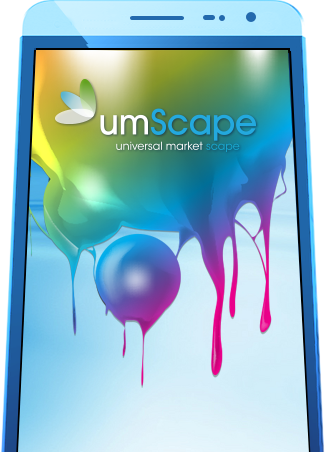
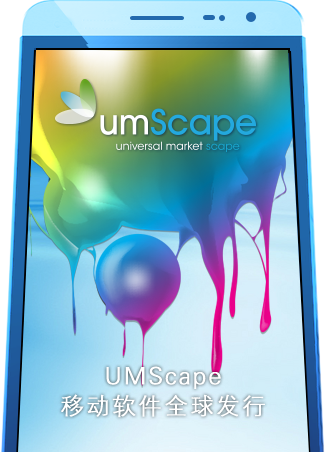
x

Changed region(s): [[0.184, 0.8053, 0.8282, 0.9292]]

diff --git a/project/pages/agreement.html b/project/pages/agreement.html
@@ -5,7 +5,7 @@
 	<meta charset="UTF-8">
 	<meta name="viewport" content="width=device-width, initial-scale=1, maximum-scale=1">
 	<link rel="icon" href="assest/images/logo.png" type="image/x-ico">
-	<title>Um Scape - Mobile Ad Network | Mobile RTB | Android App Monetization</title>
+	<title>umScape - Mobile Ad Network | Mobile RTB | Android App Monetization</title>
 	<meta name="description" content="Our AirDSP™ self-serve mobile ad network enables clients to purchase inventory from Airpush and all major mobile RTB exchanges using a single, world class interface">
 	<link rel="stylesheet" id="shadowbox-css-css" href="assest/shadowbox.css" type="text/css" media="screen">
 	<link rel="stylesheet" id="shadowbox-extras-css" href="assest/extras.css" type="text/css" media="screen">
@@ -100,9 +100,9 @@
 				<nav id="main_menu" class="smooth_menu">
 					<ul id="menu-main-navigation" class="sf-menu nav clearfix sf-js-enabled">
 						<li id="menu-item-539" class="menu-item menu-item-type-post_type menu-item-object-page current-menu-item page_item page-item-134 current_page_item current-menu-ancestor current-menu-parent current_page_parent current_page_ancestor menu-item-539"><a href="index.html" class="sf-with-ul">开发者应用</a></li>
-						<li id="menu-item-948" class="menu-item menu-item-type-custom menu-item-object-custom menu-item-948"><a href="" class="sf-with-ul">发行产品</a></li>
+						<li id="menu-item-948" class="menu-item menu-item-type-custom menu-item-object-custom menu-item-948"><a href="index.html#pushlish" class="sf-with-ul">广告产品</a></li>
 						<li id="menu-item-61" class="menu-item menu-item-type-post_type menu-item-object-page menu-item-61"><a href="" class="sf-with-ul">推广平台</a></li>
-						<li id="menu-item-59" class="menu-item menu-item-type-post_type menu-item-object-page menu-item-59 "><a href="" class="sf-with-ul">关于我们</a>
+						<li id="menu-item-59" class="menu-item menu-item-type-post_type menu-item-object-page menu-item-59 "><a href="aboutus.html" class="sf-with-ul">关于我们</a>
 							<ul class="sub-menu" style="float: none; width: 14.076923076923077em; display: none; visibility: hidden;">
 								<li id="menu-item-272" class="menu-item menu-item-type-post_type menu-item-object-page menu-item-272" style="white-space: normal; float: left; width: 100%;"><a href="aboutus.html" style="float: none; width: auto;">公司简介</a></li>
 								<li id="menu-item-1979" class="menu-item menu-item-type-post_type menu-item-object-page menu-item-1979" style="white-space: normal; float: left; width: 100%;"><a href="agreement.html" style="float: none; width: auto;">服务协议</a></li>
@@ -122,7 +122,7 @@
 			<div id="airpush-aboutus-widget">
 				<div class="container">
 					<div class="widget-content">
-			    		<h1 class="headline" style="opacity: 1;">关于UmScape</h1>
+			    		<h1 class="headline" style="opacity: 1;">关于umScape</h1>
 			    		<p class="subheading" style="opacity: 1;">More about our story, team and technology ...</p>
 			    	</div>
 				</div>
@@ -155,24 +155,24 @@
 								<h6 class="subtitle" style="padding-left: 5px;">Service Agreement</h6>
 								<h2 class="headline" style="color: #00427D;">服务协议</h2>
 								<strong>特别提示 </strong>
-								<p class="ht14" >　　酷果平台的所有权和运营权归广州市谷果软件技术有限公司所有。为获得酷果平台所提供的移动应用广告的相关服务，服务使用者（以下简称&#8220;用户&#8221;，用户包括广告主、开发者）须要同意本协议的全部条款并按照页面上的提示完成注册程序。如果用户在注册过程中点击&#8220;我同意&#8221;按钮即表示用户完全接受本协议的所有条款。 </p><br />
+								<p class="ht14" >　　优米空间平台的所有权和运营权归广州市谷果软件技术有限公司所有。为获得优米空间平台所提供的移动应用广告的相关服务，服务使用者（以下简称&#8220;用户&#8221;，用户包括广告主、开发者）须要同意本协议的全部条款并按照页面上的提示完成注册程序。如果用户在注册过程中点击&#8220;我同意&#8221;按钮即表示用户完全接受本协议的所有条款。 </p><br />
 								<p class="ht14" ><span class="htlan14"><strong>定义.</strong></span><strong>&nbsp;</strong> </p>
 								<p class="ht14" ><span class="ht14">1.</span>开发者指的是想向其手机应用程序用户发送广告的手机应用程序开发者或所有者。 </p>
 								<p class="ht14" ><span class="ht14">2.</span>广告主是想通过手机应用程序分发广告的公司、广告代理商或经纪人。 </p>
 								<p class="ht14" >3.用户指广告主或开发者。 </p>
-								<p class="ht14" >4.酷果平台是提供下述服务的公司。 </p>
-								<p class="ht14" >5.服务包括协助开发者和广告主之间进行手机广告买卖活动，以及下文和网站:(www.kuguopush.com)中描述的酷果平台提供给用户的其他服务。 </p><br />
+								<p class="ht14" >4.优米空间平台是提供下述服务的公司。 </p>
+								<p class="ht14" >5.服务包括协助开发者和广告主之间进行手机广告买卖活动，以及下文和网站:(www.kuguopush.com)中描述的优米空间平台提供给用户的其他服务。 </p><br />
 
 								<p > </p>
 								<p class="htlan14" ><strong>服务内容 </strong></p>
-								<p class="ht14" ><strong>1.针对开发者的服务。</strong>在完全和即时遵守本协议的前提下（包括付费的有关条款），酷果平台允许发布者通过其手机应用程序，发布广告作品。开发者同意酷果平台访问、索引、存储和缓存发布者应用程序发送的请求，包括使用自动化手段进行此类操作。广告主作品可能会发送至手机通知栏，也可能通过网站上提及的其他手段发送。 </p>
-								<p class="ht14" ><strong>2.可使用服务。</strong>按照本协议中的条款和规定，酷果平台应每周7&#215;24小时提供服务。用户同意，服务可能偶尔因故无法访问或使用，其原因包括但不限于：<br />
+								<p class="ht14" ><strong>1.针对开发者的服务。</strong>在完全和即时遵守本协议的前提下（包括付费的有关条款），优米空间平台允许发布者通过其手机应用程序，发布广告作品。开发者同意优米空间平台访问、索引、存储和缓存发布者应用程序发送的请求，包括使用自动化手段进行此类操作。广告主作品可能会发送至手机通知栏，也可能通过网站上提及的其他手段发送。 </p>
+								<p class="ht14" ><strong>2.可使用服务。</strong>按照本协议中的条款和规定，优米空间平台应每周7&#215;24小时提供服务。用户同意，服务可能偶尔因故无法访问或使用，其原因包括但不限于：<br />
 								（一）硬软件设备出现故障；<br />
-								（二）酷果平台可能随时进行周期性保养或维修；<br />
-								（三）酷果平台不可控或不可预见的原因，如电信或数字传输链路中断或故障，遭遇恶意的网络攻击，以及网络阻塞等故障。尽管酷果平台承诺将尽力提供优质服务，用户应同意，酷果平台无法控制服务的连续性和稳定性。酷果平台没有对服务进行追踪以保证服务连续性的责任。 </p><br />
+								（二）优米空间平台可能随时进行周期性保养或维修；<br />
+								（三）优米空间平台不可控或不可预见的原因，如电信或数字传输链路中断或故障，遭遇恶意的网络攻击，以及网络阻塞等故障。尽管优米空间平台承诺将尽力提供优质服务，用户应同意，优米空间平台无法控制服务的连续性和稳定性。优米空间平台没有对服务进行追踪以保证服务连续性的责任。 </p><br />
 
 								<p class="htlan14" ><strong>使用规则 </strong></p>
-								<p class="ht14" >1.用户在申请注册酷果平台时，须要向平台提供准确的个人资料，如用户使用本平台服务期间资料（邮箱、身份证、联系方式、账户信息等）有所变更，应及时以电话或者QQ的方式向本平台客服工作人员发出通知，否则对于可能造成的损失将由用户自己承担。用户注册成功后，本平台将给予每个用户一个用户密码。如果用户的密码丢失、被盗或泄露，用户应及时通知酷果平台，届时酷果平台应拒绝以该密码提请的访问请求，并按照用户授权的方式补发密码。 </p><br />
+								<p class="ht14" >1.用户在申请注册优米空间平台时，须要向平台提供准确的个人资料，如用户使用本平台服务期间资料（邮箱、身份证、联系方式、账户信息等）有所变更，应及时以电话或者QQ的方式向本平台客服工作人员发出通知，否则对于可能造成的损失将由用户自己承担。用户注册成功后，本平台将给予每个用户一个用户密码。如果用户的密码丢失、被盗或泄露，用户应及时通知优米空间平台，届时优米空间平台应拒绝以该密码提请的访问请求，并按照用户授权的方式补发密码。 </p><br />
 
 								<p > </p>
 								<p class="htlan14" ><strong>用户在使用平台提供的服务时，必须遵循以下原则：</strong></p>
@@ -188,35 +188,35 @@
 								<p class="ht14" >&#183;&nbsp;含有法律、行政法规禁止的其他内容的; </p><br />
 
 								<p > </p>
-								<p class="ht14" ><strong>2.酷果平台的权利。</strong>用户同意酷果平台随时因任何原因自行决定删除用户，或禁止用户访问网站或存储在网站上的部分或全部广告主作品。用户不得用任何不正当手段损害本平台其他用户及本平台的利益及声誉,不得利用非正规途径获得广告收益,一旦发现,将封锁帐号并且不给予结算。 </p><br />
+								<p class="ht14" ><strong>2.优米空间平台的权利。</strong>用户同意优米空间平台随时因任何原因自行决定删除用户，或禁止用户访问网站或存储在网站上的部分或全部广告主作品。用户不得用任何不正当手段损害本平台其他用户及本平台的利益及声誉,不得利用非正规途径获得广告收益,一旦发现,将封锁帐号并且不给予结算。 </p><br />
 
 								<p class="ht14" ><strong>3.用户违反上述规定的一条或多条，本平台有权随时解除合作并停止结算。</strong></p><br />
 
 								<p class="ht14" ><strong><span class="htlan14">许可证和所有权&nbsp;</span></strong><br />
 								</p>
-								<p class="ht14" >1.<strong>广告主特此授权酷果平台和开发者</strong>：酷果平台和开发者从广告主处获得非独家全球性免版税许可，根据此协议（或酷果平台强制执行本协议），可在互联网上或通过互联网复制、展示、发行、制作相关广告作品。广告主特别授权酷果平台对作品进行分类、描述，添加元数据、员工评价及质量分数，或执行其他操作，以将作品提供给发布者。 </p><br />
+								<p class="ht14" >1.<strong>广告主特此授权优米空间平台和开发者</strong>：优米空间平台和开发者从广告主处获得非独家全球性免版税许可，根据此协议（或优米空间平台强制执行本协议），可在互联网上或通过互联网复制、展示、发行、制作相关广告作品。广告主特别授权优米空间平台对作品进行分类、描述，添加元数据、员工评价及质量分数，或执行其他操作，以将作品提供给发布者。 </p><br />
 
-								<p class="ht14" >2.<strong>酷果平台所有权。</strong>&nbsp;酷果平台对&#8220;酷果平台材料&#8221;以及所有受法律保护的内容、衍生作品、修订和改进的内容，保留全部权利、所有权和权益（包括版权和其他专有权或知识产权），无论相关内容是否由酷果平台与广告客户合作开发，或由酷果平台、广告主或任何承包商、酷果平台或广告主的分包商或代理商开发。 </p><br />
+								<p class="ht14" >2.<strong>优米空间平台所有权。</strong>&nbsp;优米空间平台对&#8220;优米空间平台材料&#8221;以及所有受法律保护的内容、衍生作品、修订和改进的内容，保留全部权利、所有权和权益（包括版权和其他专有权或知识产权），无论相关内容是否由优米空间平台与广告客户合作开发，或由优米空间平台、广告主或任何承包商、优米空间平台或广告主的分包商或代理商开发。 </p><br />
 
 								<p class="htlan14" ><strong>隐私保护 </strong></p>
-								<p class="ht14" >酷果非常注重保护用户的隐私，在未经用户许可的情况下，酷果承诺不会将信息公开或提供给第三方，但下列情况除外： </p>
+								<p class="ht14" >优米空间非常注重保护用户的隐私，在未经用户许可的情况下，优米空间承诺不会将信息公开或提供给第三方，但下列情况除外： </p>
 								<p class="ht14" ><strong>&#183;事先获得用户的授权 </strong></p>
 								<p class="ht14" ><strong>&#183;根据有关的法律法规要求 </strong></p>
 								<p class="ht14" ><strong>&#183;按照相关政府主管部门的要求 </strong></p>
 								<p class="ht14" ><strong>&#183;为维护社会公众的利益 </strong></p>
 								<p class="ht14" ><strong>&#183;为维护本平台的合法权益 </strong></p><br />
 
-								<p class="ht14" >　　为了不断提升广告的精准度，酷果在不透露个体用户信息的前提下，有权对用户数据库进行分析、处理。酷果将在充分保护用户隐私的前提下，不断改进，为用户带来真正准确、有用的广告信息。 </p><br />
+								<p class="ht14" >　　为了不断提升广告的精准度，优米空间在不透露个体用户信息的前提下，有权对用户数据库进行分析、处理。优米空间将在充分保护用户隐私的前提下，不断改进，为用户带来真正准确、有用的广告信息。 </p><br />
 
 								<p class="htlan14" ><strong>保证和免责申明 </strong></p>
-								<p class="ht14" ><strong>1.酷果平台保证和免责。</strong>用户同意，酷果平台提供的服务及网站上所有内容都未经任何处理，不担保其有效性。&nbsp;酷果平台随时可以更改、暂停或终止服务（或用户的访问），包括更改功能可用性、广告、发布商或内容，恕不另行通知或承担责任。&nbsp;酷果平台保留自行决定随时拒绝某个用户使用服务的权利。 </p><br />
+								<p class="ht14" ><strong>1.优米空间平台保证和免责。</strong>用户同意，优米空间平台提供的服务及网站上所有内容都未经任何处理，不担保其有效性。&nbsp;优米空间平台随时可以更改、暂停或终止服务（或用户的访问），包括更改功能可用性、广告、发布商或内容，恕不另行通知或承担责任。&nbsp;优米空间平台保留自行决定随时拒绝某个用户使用服务的权利。 </p><br />
 
-								<p class="ht14" ><strong>2.广告主保证。</strong>广告主用户向酷果平台声明并保证：<br />
+								<p class="ht14" ><strong>2.广告主保证。</strong>广告主用户向优米空间平台声明并保证：<br />
 								（一）用户有能力和权利签署并履行本协议规定的相关义务；<br />
 								（二）广告作品中不包含违反或涉嫌违反任何相关法律或法规，侵犯或盗用他人所有权、知识产权、合同或民事权利的内容、材料、数据、作品、贸易或服务商标、商品名称、链接、广告或服务；<br />
 								（三）广告客户对广告作品拥有适当权限及所有专利或知识产权，或经由所有者明确的书面授权，能够复制、使用、分发、制作衍生作品，并在网站上公开展示和运行广告作品。当广告代理商代表广告主执行此协议时，对于所有约定事项条款、声明和下属付款义务，广告代理商应和广告主应共同承担连带责任。 </p><br />
 
-								<p class="ht14" ><strong>3.酷果平台担保声明。</strong>酷果平台不做任何明示或暗示担保，包括但不限于特定用途的适销性，适用性和/或有关本协议的任何标的事项的非侵权的任何暗示担保。 </p><br />
+								<p class="ht14" ><strong>3.优米空间平台担保声明。</strong>优米空间平台不做任何明示或暗示担保，包括但不限于特定用途的适销性，适用性和/或有关本协议的任何标的事项的非侵权的任何暗示担保。 </p><br />
 
 								<p class="htlan14" ><strong>违约赔偿 </strong></p>
 								<p class="ht14" >用户同意保障和维护本平台以及其他用户的利益，如因用户违反有关法律、法规或协议规定中的任何条款而给本平台或任何其他第三方造成损失，用户同意承担由此造成的损害赔偿责任。 </p><br />
@@ -234,7 +234,7 @@
 								<p class="ht14" >本协议构成双方对本协议之约定事项及其他有关事宜的完整协议，除本协议规定的之外，未赋予本协议各方其他权利。 </p>
 								<p class="ht14" >如本协议中的任何条款无论因何种原因完全或部分无效或不具有执行力，本协议的其余条款仍应有效并且有约束力。 </p>
 								<p class="ht14" >加入本平台前请详细阅读该协议,加入即默认您认可该协议规定内容。 </p>
-								<p class="ht14" >本协议解释权归酷果平台和广州市谷果软件技术有限公司所有。 </p>
+								<p class="ht14" >本协议解释权归优米空间平台和广州市谷果软件技术有限公司所有。 </p>
 							</div>
 						</div>
 					</div>
@@ -341,18 +341,18 @@
 				</div>
 			</div>
 			<div class="site-bottom">
-				<div class="left">&copy;2013 Um Scape. All rights reserved.</div>
+				<div class="left">&copy;2013 umScape. All rights reserved.</div>
 				<div class="right">
 					<!-- <a href="">网站地图</a> | 
 					<a href="">服务条款</a> | 
 					<a href="">隐私政策</a> -->
-					<a href="javascript:;">成都市高新区府城大道西段399号天府新谷8号楼</a>
+					<a href="javascript:;">深圳市车公庙泰然四路泰康轩2402室</a>
 				</div>
 			</div>
 		</div>
 	</footer>
 </div><!-- end page_wrapper -->
-<a href="" id="totop" class="on">TOP</a>
+<a href="" id="totop" class="on">顶部</a>
 <script type='text/javascript' src='assest/shadowbox.js'></script>
 <script type='text/javascript' src='assest/jquery.event.drag-2.2.js'></script>
 <script type='text/javascript' src='assest/jquery.event.drop-2.2.js'></script>

diff --git a/project/pages/index.html b/project/pages/index.html
@@ -5,7 +5,7 @@
 	<meta charset="UTF-8">
 	<meta name="viewport" content="width=device-width, initial-scale=1, maximum-scale=1">
 	<link rel="icon" href="assest/images/logo.png" type="image/x-ico">
-	<title>Um Scape - Mobile Ad Network | Mobile RTB | Android App Monetization</title>
+	<title>umScape - Mobile Ad Network | Mobile RTB | Android App Monetization</title>
 	<link rel="stylesheet" id="shadowbox-css-css" href="assest/shadowbox.css" type="text/css" media="screen">
 	<link rel="stylesheet" id="shadowbox-extras-css" href="assest/extras.css" type="text/css" media="screen">
 	<link rel="stylesheet" id="rs-settings-css" href="assest/settings.css" type="text/css" media="all">
@@ -66,9 +66,9 @@
 				<nav id="main_menu" class="smooth_menu">
 					<ul id="menu-main-navigation" class="sf-menu nav clearfix sf-js-enabled">
 						<li id="menu-item-539" class="menu-item menu-item-type-post_type menu-item-object-page current-menu-item page_item page-item-134 current_page_item current-menu-ancestor current-menu-parent current_page_parent current_page_ancestor menu-item-539 "><a href="index.html" class="sf-with-ul">开发者应用</a></li>
-						<li id="menu-item-948" class="menu-item menu-item-type-custom menu-item-object-custom menu-item-948"><a href="" class="sf-with-ul">发行产品</a></li>
+						<li id="menu-item-948" class="menu-item menu-item-type-custom menu-item-object-custom menu-item-948"><a href="#pushlish" class="sf-with-ul">广告产品</a></li>
 						<li id="menu-item-61" class="menu-item menu-item-type-post_type menu-item-object-page menu-item-61"><a href="" class="sf-with-ul">推广平台</a></li>
-						<li id="menu-item-59" class="menu-item menu-item-type-post_type menu-item-object-page menu-item-59"><a href="" class="sf-with-ul">关于我们</a>
+						<li id="menu-item-59" class="menu-item menu-item-type-post_type menu-item-object-page menu-item-59"><a href="aboutus.html" class="sf-with-ul">关于我们</a>
 							<ul class="sub-menu" style="float: none; width: 14.076923076923077em; display: none; visibility: hidden;">
 								<li id="menu-item-272" class="menu-item menu-item-type-post_type menu-item-object-page menu-item-272" style="white-space: normal; float: left; width: 100%;"><a href="aboutus.html" style="float: none; width: auto;">公司简介</a></li>
 								<li id="menu-item-1979" class="menu-item menu-item-type-post_type menu-item-object-page menu-item-1979" style="white-space: normal; float: left; width: 100%;"><a href="agreement.html" style="float: none; width: auto;">服务协议</a></li>
@@ -90,8 +90,8 @@
 					<div class="widget-content">
 						<img class="headimg">
 						<div class="actions">
-							<a href="" class="link_regist">Create Account</a>
-							<a href="" class="link_login">Developer?</a><br>
+							<a href="http://58.221.59.139:8080/register.html" class="link_regist">Create Account</a>
+							<a href="http://58.221.59.139:8080/login.html" class="link_login">Developer?</a><br>
 						</div>
 					</div>
 
@@ -147,8 +147,8 @@
 								<img src="assest/images/wp/media-icon-rich-media-snap.jpg" rel="slide-7">
 							</div>
 							<div class="copy-container">
-								<p class="subheading">Billions of Impressions . . .</p>
-								<h2 class="headline">多元化丰富推广模式 . . .</h2>
+								<p class="subheading">Billions of Impressions</p>
+								<h2 class="headline">多元化丰富推广模式</h2>
 								<p class="copy">优米空间的广告客户可从大量的广告形式中选择适合自己的方式进行投放，优米提供专有的智能推送广告、快捷方式广告、推荐墙、广告条和富媒体广告。</p>
 								<div classs="actions"><a class="btn_seemore" rel="shadowbox;height=587;width=1250" href="ad-formats-detail.html">查看更多</a></div>
 								<div class="caption-container">
@@ -208,6 +208,7 @@
 			</div>
 
 			<div id="superiority" class="content-section_airpush_superiority content-section odd" style="margin-bottom: 40px;">
+				<a id="pushlish"></a>
 				<div class="liner">
 					<div class="liner-headline">
 				  		<em class="liner-point liner-point-left"></em>SUPERIORITY<span class="liner-padding">•</span>优势<em class="liner-point liner-point-right"></em>
@@ -242,11 +243,8 @@
 								<h2 class="headline">软件发行平台</h2>
 								<p class="copy">
 									优米空间依靠强大的渠道分发能力和平台自身巨大的活跃用户为基础，给开发者提供游戏和应用的一站式推广服务，直接降低了游戏和应用的发行门槛。
-									<br/>使一般开发者同样有机会让自身的产品能在海量的软件商店中脱颖而出。
+									使一般开发者同样有机会让自身的产品能在海量的软件商店中脱颖而出。
 								</p>
-								<div class="actions" style="float: right;">
-									<a class="btn_seemore" href="">查看更多</a>
-								</div>
 							</div>
 						</div>
 					</div>
@@ -318,11 +316,11 @@
 
 
 
-			<div id="airpush-superiority-widget" style="background: #226CBB !important;">
+			<div id="airpush-superiority-widget" style="background: #005AA9 !important;height: 380px;">
 				<div class="container">
-					<div class="superiority-container" style="height: 260px;width:100%;">
-						<img src="assest/images/aboutus/wordcountry.png" style="margin-top: 45px;">
-						<div class="copy-container" style="margin-top: 40px; text-align:left;">
+					<div class="superiority-container" style="height: 260px;width:100%;margin-top: 0;">
+						<img src="assest/images/earthland.png" style="margin-top: 20px;width: 550px;">
+						<div class="copy-container" style="margin-top: 80px; text-align:left;">
 							<h2 class="headline" style="color: white;">基于全球的CDN加速网络</h2>
 							<h6 class="subtitle" style="color: #F8F8F8;">最高的广告填充率</h6>
 							<p class="copy" style="color: #F8F8F8;">
@@ -434,12 +432,12 @@
 				</div>
 			</div>
 			<div class="site-bottom">
-				<div class="left">&copy;2013 Um Scape. All rights reserved.</div>
+				<div class="left">&copy;2013 umScape. All rights reserved.</div>
 				<div class="right">
 					<!-- <a href="">网站地图</a> | 
 					<a href="">服务条款</a> | 
 					<a href="">隐私政策</a> -->
-					<a href="javascript:;">成都市高新区府城大道西段399号天府新谷8号楼</a>
+					<a href="javascript:;">深圳市车公庙泰然四路泰康轩2402室</a>
 				</div>
 			</div>
 		</div>

diff --git a/project/pages/aboutus.html b/project/pages/aboutus.html
@@ -5,8 +5,7 @@
 	<meta charset="UTF-8">
 	<meta name="viewport" content="width=device-width, initial-scale=1, maximum-scale=1">
 	<link rel="icon" href="assest/images/logo.png" type="image/x-ico">
-	<title>Um Scape - Mobile Ad Network | Mobile RTB | Android App Monetization</title>
-	<meta name="description" content="Our AirDSP™ self-serve mobile ad network enables clients to purchase inventory from Airpush and all major mobile RTB exchanges using a single, world class interface">
+	<title>umScape - Mobile Ad Network | Mobile RTB | Android App Monetization</title>
 	<link rel="stylesheet" id="shadowbox-css-css" href="assest/shadowbox.css" type="text/css" media="screen">
 	<link rel="stylesheet" id="shadowbox-extras-css" href="assest/extras.css" type="text/css" media="screen">
 	<link rel="stylesheet" id="rs-settings-css" href="assest/settings.css" type="text/css" media="all">
@@ -100,9 +99,9 @@
 				<nav id="main_menu" class="smooth_menu">
 					<ul id="menu-main-navigation" class="sf-menu nav clearfix sf-js-enabled">
 						<li id="menu-item-539" class="menu-item menu-item-type-post_type menu-item-object-page current-menu-item page_item page-item-134 current_page_item current-menu-ancestor current-menu-parent current_page_parent current_page_ancestor menu-item-539"><a href="index.html" class="sf-with-ul">开发者应用</a></li>
-						<li id="menu-item-948" class="menu-item menu-item-type-custom menu-item-object-custom menu-item-948"><a href="" class="sf-with-ul">发行产品</a></li>
+						<li id="menu-item-948" class="menu-item menu-item-type-custom menu-item-object-custom menu-item-948"><a href="index.html#pushlish" class="sf-with-ul">广告产品</a></li>
 						<li id="menu-item-61" class="menu-item menu-item-type-post_type menu-item-object-page menu-item-61"><a href="" class="sf-with-ul">推广平台</a></li>
-						<li id="menu-item-59" class="menu-item menu-item-type-post_type menu-item-object-page menu-item-59 "><a href="" class="sf-with-ul">关于我们</a>
+						<li id="menu-item-59" class="menu-item menu-item-type-post_type menu-item-object-page menu-item-59 "><a href="aboutus.html" class="sf-with-ul">关于我们</a>
 							<ul class="sub-menu" style="float: none; width: 14.076923076923077em; display: none; visibility: hidden;">
 								<li id="menu-item-272" class="menu-item menu-item-type-post_type menu-item-object-page menu-item-272" style="white-space: normal; float: left; width: 100%;"><a href="aboutus.html" style="float: none; width: auto;">公司简介</a></li>
 								<li id="menu-item-1979" class="menu-item menu-item-type-post_type menu-item-object-page menu-item-1979" style="white-space: normal; float: left; width: 100%;"><a href="agreement.html" style="float: none; width: auto;">服务协议</a></li>
@@ -122,7 +121,7 @@
 			<div id="airpush-aboutus-widget">
 				<div class="container">
 					<div class="widget-content">
-			    		<h1 class="headline" style="opacity: 1;">关于UmScape</h1>
+			    		<h1 class="headline" style="opacity: 1;">关于umScape</h1>
 			    		<p class="subheading" style="opacity: 1;">More about our story, team and technology ...</p>
 			    	</div>
 				</div>
@@ -157,7 +156,7 @@
 									<h6 class="subtitle" style="padding-left: 5px;">About us</h6>
 									<h2 class="headline">关于我们</h2>
 									<p class="copy">
-										公司是位于成都的一家渠道公司，当我们看到非常多的开发者和游戏公司在夜以继日将产品完成推出后却苦于没有好的资源去做后续推广，同时在推广成本不断升高渠道整合日益加剧的今天，我们创建了UMScape（universal market scape 优米空间）这是一个基于开发者联盟创建的游戏应用互推平台，上面承载着海量的应用和游戏，平台本着我为人人，人人为我的宗旨和理念帮助开发者将应用和游戏进行大力推广和宣传，同时还给开发者提供可观的广告收益。
+										公司是一家专注于软件分发的渠道公司，公司总部在深圳并在成都设有分公司，当我们看到非常多的开发者和游戏公司在夜以继日将产品完成推出后却苦于没有好的资源去做后续推广，同时在推广成本不断升高渠道整合日益加剧的今天，我们创建了UMScape（universal market scape 优米空间）这是一个基于开发者联盟创建的游戏应用互推平台，上面承载着海量的应用和游戏，平台本着我为人人，人人为我的宗旨和理念帮助开发者将应用和游戏进行大力推广和宣传，同时还给开发者提供可观的广告收益。
 									</p>
 								</div>
 							</div>
@@ -177,9 +176,9 @@
 									<h6 class="subtitle" style="padding-left: 5px;">Contact us</h6>
 									<h2 class="headline">联系我们</h2>
 									<ul class="info">
-										<li class="l1">成都市高新区府城大道西段399号天府新谷8号楼</li>
+										<li class="l1" style="line-height:20px;">深圳公司：深圳市车公庙泰然四路泰康轩2402室<br/>成都公司：成都市高新区府城大道西段399号天府新谷8号楼</li>
 										<li class="l2">support@umscape.com</li>
-										<li class="l3">028-85195277-806</li>
+										<li class="l3" style="line-height:20px;">深圳公司：0755-82835339<br/>成都公司：028-85195277-806</li>
 									</ul>
 								</div>
 							</div>
@@ -288,18 +287,18 @@
 				</div>
 			</div>
 			<div class="site-bottom">
-				<div class="left">&copy;2013 Um Scape. All rights reserved.</div>
+				<div class="left">&copy;2013 umScape. All rights reserved.</div>
 				<div class="right">
 					<!-- <a href="">网站地图</a> | 
 					<a href="">服务条款</a> | 
 					<a href="">隐私政策</a> -->
-					<a href="javascript:;">成都市高新区府城大道西段399号天府新谷8号楼</a>
+					<a href="javascript:;">深圳市车公庙泰然四路泰康轩2402室</a>
 				</div>
 			</div>
 		</div>
 	</footer>
 </div><!-- end page_wrapper -->
-<a href="" id="totop" class="on">TOP</a>
+<a href="" id="totop" class="on">顶部</a>
 <script type='text/javascript' src='assest/shadowbox.js'></script>
 <script type='text/javascript' src='assest/jquery.event.drag-2.2.js'></script>
 <script type='text/javascript' src='assest/jquery.event.drop-2.2.js'></script>

diff --git a/project/pages/assest/style.css b/project/pages/assest/style.css
@@ -424,7 +424,7 @@ header#header { z-index: 5; }
 	#airpush-superiority-widget .copy-container { width: 480px; float: right;color: #707070; margin-top: 120px;margin-right: 30px; text-align: right;}
 	#airpush-superiority-widget .copy-container .headline { color: #00427D; font-size: 2em; line-height: .9em; margin-bottom: 4px; letter-spacing: 0; font-weight: normal; }
 	#airpush-superiority-widget .copy-container .subheading { color: #00427D; font-size: 1.5em; line-height: 1.4em; letter-spacing: 0; margin-bottom: 0; font-weight: normal; }
-	#airpush-superiority-widget .copy-container .copy { font-size: .9em; line-height: 1.5em; margin-top: 20px; font-weight: normal; }
+	#airpush-superiority-widget .copy-container .copy { font-size: 1em; line-height: 1.5em; margin-top: 20px; font-weight: normal; }
 	#airpush-superiority-widget .copy-container .button { margin-top: 30px; }	
 	
 	
@@ -453,7 +453,7 @@ header#header { z-index: 5; }
 	#airpush-laptop-loupe-widget .copy-container { width: 40%; float: left; margin: 120px 0; color: #f5f5f5; }
 	#airpush-laptop-loupe-widget .copy-container .headline { color: #f5f5f5; font-size: 2em; line-height: .9em; margin-bottom: 4px; letter-spacing: 0; font-weight: normal; }
 	#airpush-laptop-loupe-widget .copy-container .subheading { color: #f5f5f5; font-size: 1.5em; line-height: 1.4em; letter-spacing: 0; margin-bottom: 0; font-weight: normal; }
-	#airpush-laptop-loupe-widget .copy-container .copy { font-size: .9em; line-height: 1.5em; margin-top: 20px; font-weight: normal; }
+	#airpush-laptop-loupe-widget .copy-container .copy { font-size: 1em; line-height: 1.5em; margin-top: 20px; font-weight: normal; }
 	#airpush-laptop-loupe-widget .copy-container .button { margin-top: 30px; }	
 	
 	@media all and (min-width: 980px) and (max-width: 1199px) {

diff --git a/project/pages/ad-formats-detail.html b/project/pages/ad-formats-detail.html
@@ -1,3 +1,8 @@
+<!DOCTYPE html>
+<html lang="en-US" style="height: 100%;">
+<head>
+    <meta http-equiv="Content-Type" content="text/html; charset=UTF-8">
+    <meta charset="UTF-8">
 <link rel='stylesheet' id='shadowbox-css-css' href='assest/shadowbox.css'
 type='text/css' media='screen' />
 <link rel='stylesheet' id='zn-templtecss-css' href='assest/template.css'
@@ -11,6 +16,8 @@ media='all' />
     margin: 10px auto; } .vvqbox img { max-width: 100%; height: 100%; } .vvqbox
     object { max-width: 100%; }
 </style>
+</head>
+<body>
 <section id="content">
     <div id="ad_format_detail_even" class="content-section_text_box content-section odd">
         <div class="container">
@@ -245,3 +252,5 @@ media='all' />
         </div>
     </div>
 </section>
+</body>
+</html>
